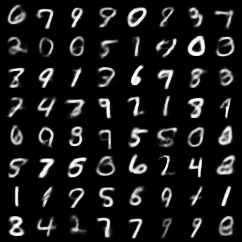
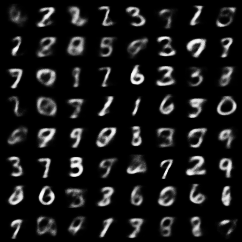
Update, results for regularized and unregularized VAE recorded

diff --git a/variational_denoising_autoencoder.py b/variational_denoising_autoencoder.py
@@ -53,7 +53,7 @@ batch_size = 128
 # if we use dropout or not
 dropout = False
 # define the learning rate
-learning_rate = 1e-4
+learning_rate = 1e-5
 # number of epochs to train the model
 n_epochs = 200
 # for adding noise to images
@@ -104,16 +104,16 @@ class VAE(nn.Module):
     def forward(self, x):
         mu, logvar = self.encode(x.view(-1, 784))
         z = self.reparameterize(mu, logvar)
-        return self.decode(z), mu, logvar
+        return self.decode(z), mu, logvar, z
 
 
 model = VAE().to(device)
 print(model)
 
-optimizer = optim.Adam(model.parameters(), lr=1e-3)
+optimizer = optim.Adam(model.parameters(), lr=learning_rate)
 
 # Reconstruction + KL divergence losses summed over all elements and batch
-def loss_function(recon_x, x, mu, logvar):
+def loss_function(recon_x, x, mu, logvar, z):
     BCE = F.binary_cross_entropy(recon_x, x.view(-1, 784), reduction='sum')
 
     # see Appendix B from VAE paper:
@@ -121,6 +121,8 @@ def loss_function(recon_x, x, mu, logvar):
     # https://arxiv.org/abs/1312.6114
     # 0.5 * sum(1 + log(sigma^2) - mu^2 - sigma^2)
     KLD = -0.5 * torch.sum(1 + logvar - mu.pow(2) - logvar.exp())
+
+    #regularization = torch.sum(torch.abs(z))
 
     return BCE + KLD
 
@@ -138,9 +140,9 @@ def train(epoch):
 
         optimizer.zero_grad()
 
-        outputs, mu, logvar = model.forward(noisy_images)
+        outputs, mu, logvar, z = model.forward(noisy_images)
 
-        loss = loss_function(outputs, data, mu, logvar)
+        loss = loss_function(outputs, data, mu, logvar, z)
 
         loss.backward()
 
@@ -170,9 +172,9 @@ def test(epoch):
             noisy_images = data + noise_factor * torch.randn(*data.shape)
             noisy_images = np.clip(noisy_images, 0., 1.)
 
-            outputs, mu, logvar = model(noisy_images)
+            outputs, mu, logvar, z = model(noisy_images)
 
-            test_loss += loss_function(outputs, data, mu, logvar).item()
+            test_loss += loss_function(outputs, data, mu, logvar, z).item()
 
             if i == 0:
                 n = min(data.size(0), 8)
